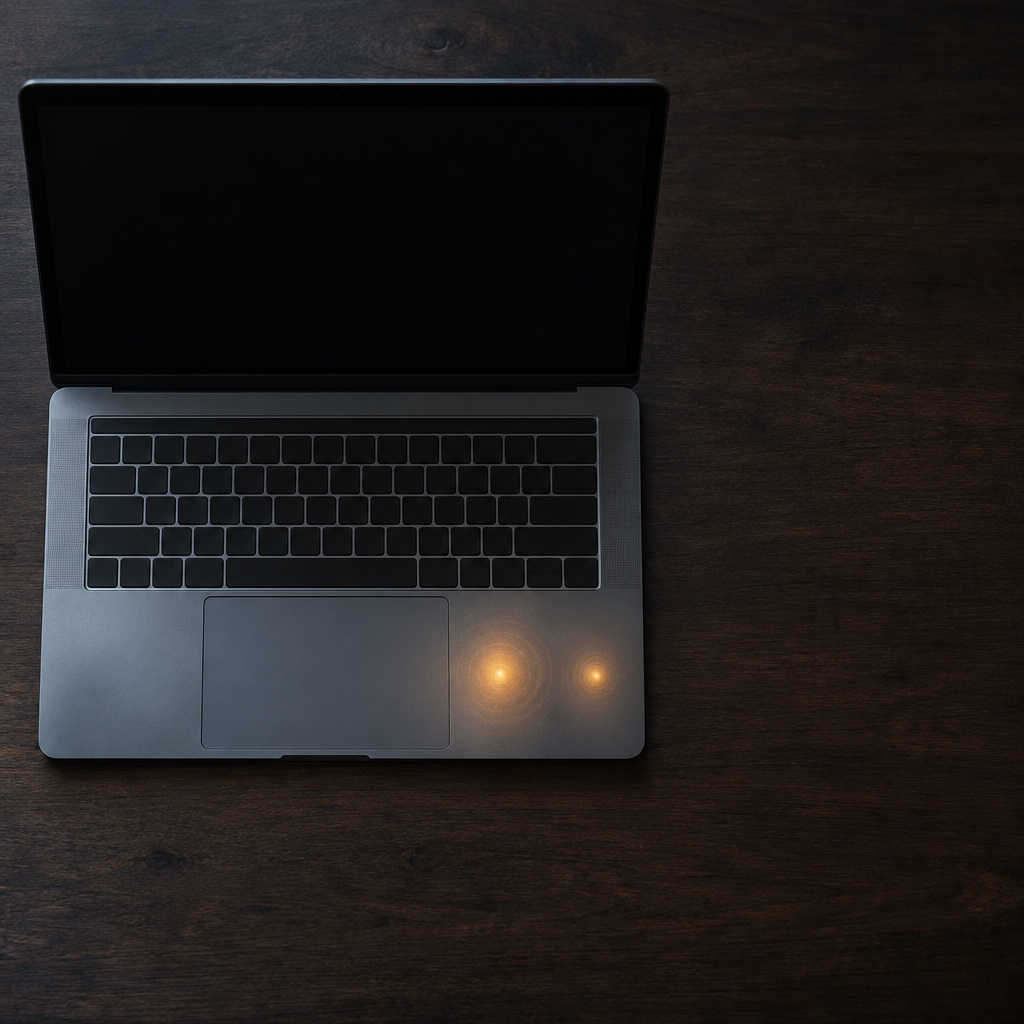
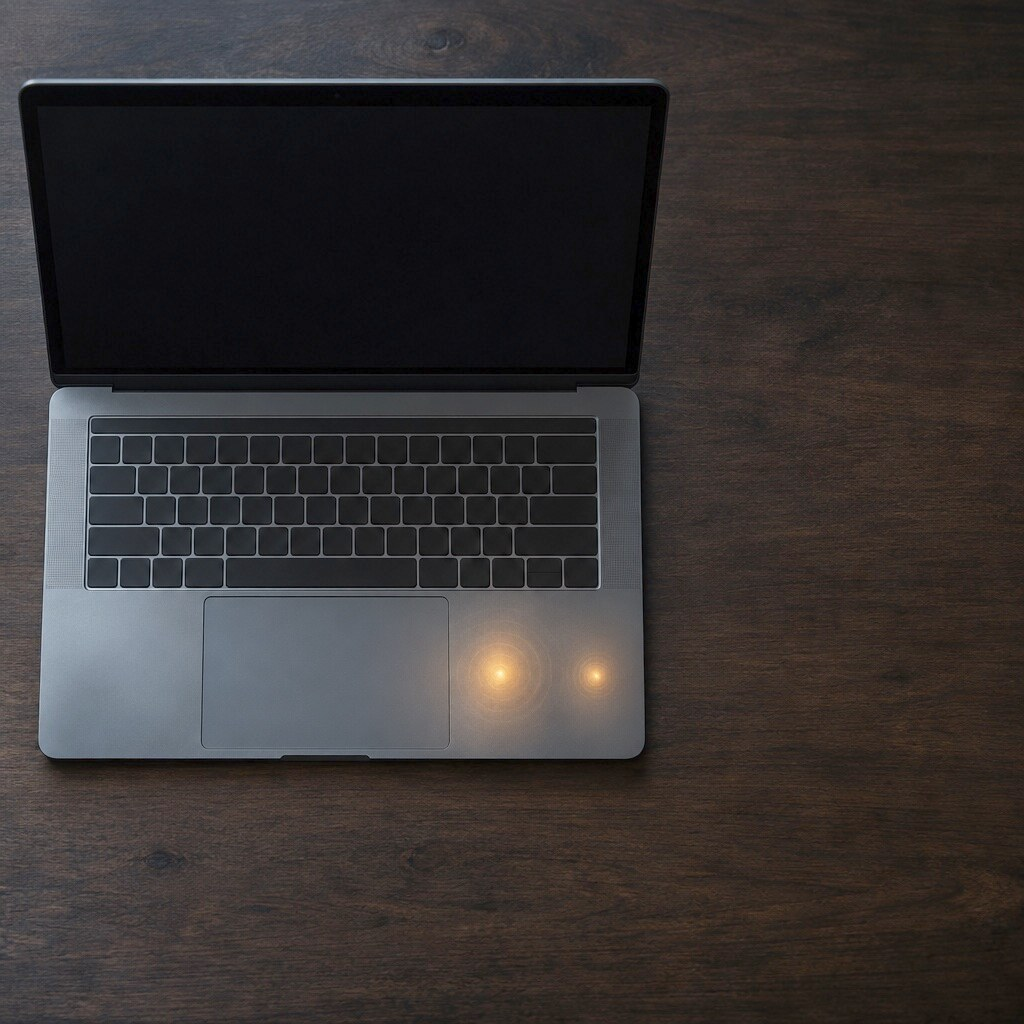
Lift the hero photograph out of the page black so the laptop reads

diff --git a/site/demo.css b/site/demo.css
@@ -81,7 +81,9 @@
   aspect-ratio: 1;
   border-radius: var(--r-lg, 20px);
   overflow: hidden;
-  box-shadow: var(--shadow-3);
+  /* On a near-black page a drop shadow does nothing. A hairline ring gives the
+     photograph an edge, so the column reads as a frame rather than a hole. */
+  box-shadow: var(--shadow-3), inset 0 0 0 1px var(--hair);
 }
 
 .demo-hero__fig img {
